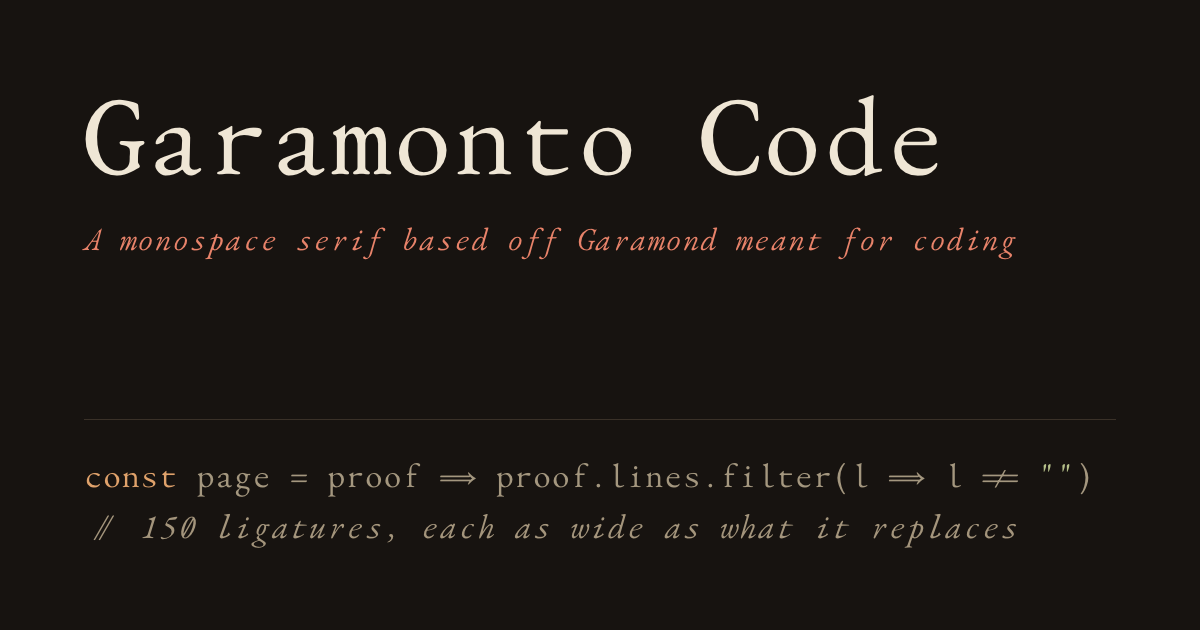
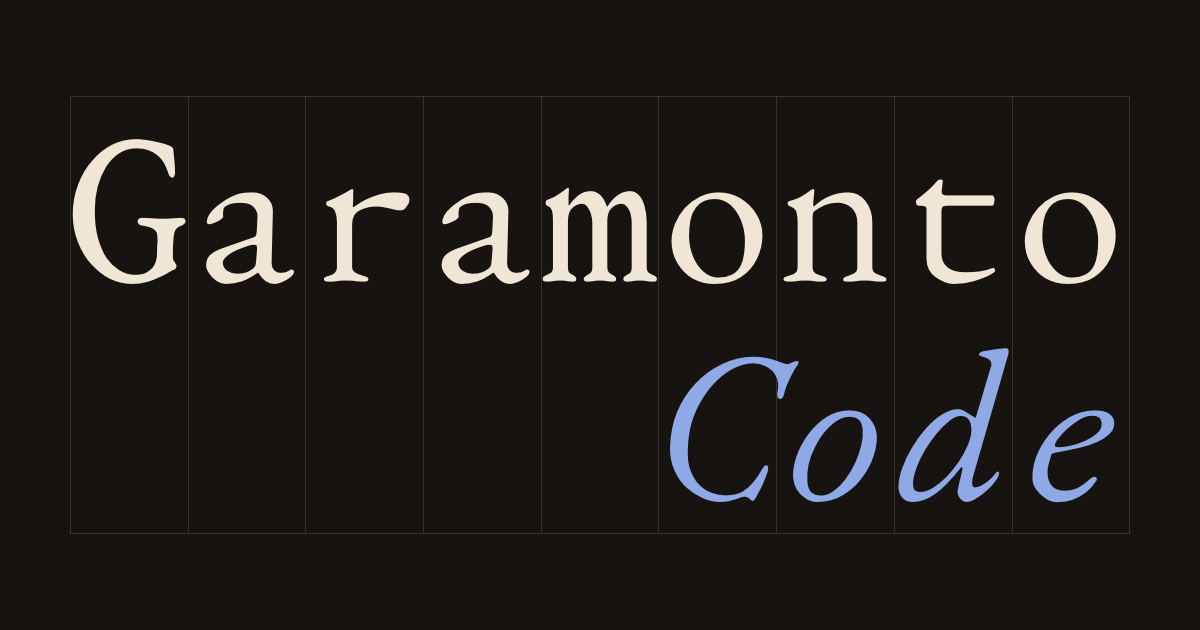
Make the link preview the big wordmark and swap the copper accent for ink blue

diff --git a/index.html b/index.html
@@ -23,18 +23,18 @@
 
 :root{
 	color-scheme:light;
-	--paper:#f5efe2; --sheet:#fbf7ee; --ink:#1d1814; --soft:#6d6253; --rule:#d9cfbc; --rubric:#a5301c;
+	--paper:#f5efe2; --sheet:#fbf7ee; --ink:#1d1814; --soft:#6d6253; --rule:#d9cfbc; --rubric:#2f4f9e;
 	--desk:#1c1713; --desk-2:#27211b; --desk-rule:#3b3228; --chalk:#ece2cf; --dim:#9a8c76;
 	--k:#e0a26b; --s:#b6c08a; --n:#e58f73; --f:#f0cf9c; --c:#a4957c;
 }
 @media (prefers-color-scheme:dark){:root:not([data-theme="light"]){
 	color-scheme:dark;
-	--paper:#171310; --sheet:#1f1a15; --ink:#efe6d5; --soft:#a4977f; --rule:#3a3128; --rubric:#e8836a;
+	--paper:#171310; --sheet:#1f1a15; --ink:#efe6d5; --soft:#a4977f; --rule:#3a3128; --rubric:#8fa9e6;
 	--desk:#100d0a; --desk-2:#1b1612; --desk-rule:#332b22;
 }}
 :root[data-theme="dark"]{
 	color-scheme:dark;
-	--paper:#171310; --sheet:#1f1a15; --ink:#efe6d5; --soft:#a4977f; --rule:#3a3128; --rubric:#e8836a;
+	--paper:#171310; --sheet:#1f1a15; --ink:#efe6d5; --soft:#a4977f; --rule:#3a3128; --rubric:#8fa9e6;
 	--desk:#100d0a; --desk-2:#1b1612; --desk-rule:#332b22;
 }
 *{box-sizing:border-box}
@@ -68,7 +68,7 @@ nav a{text-decoration:none;white-space:nowrap}
 .cta{display:flex;flex-wrap:wrap;gap:12px}
 .btn{display:inline-block;padding:9px 18px;border:1px solid var(--ink);text-decoration:none;font-weight:500}
 .btn.solid{background:var(--ink);color:var(--paper)}
-.btn:hover{background:var(--rubric);border-color:var(--rubric);color:#fff}
+.btn:hover{background:var(--rubric);border-color:var(--rubric);color:var(--paper)}
 
 /* Editor */
 .desk{background:var(--desk);color:var(--chalk);border-radius:6px;overflow:hidden}
